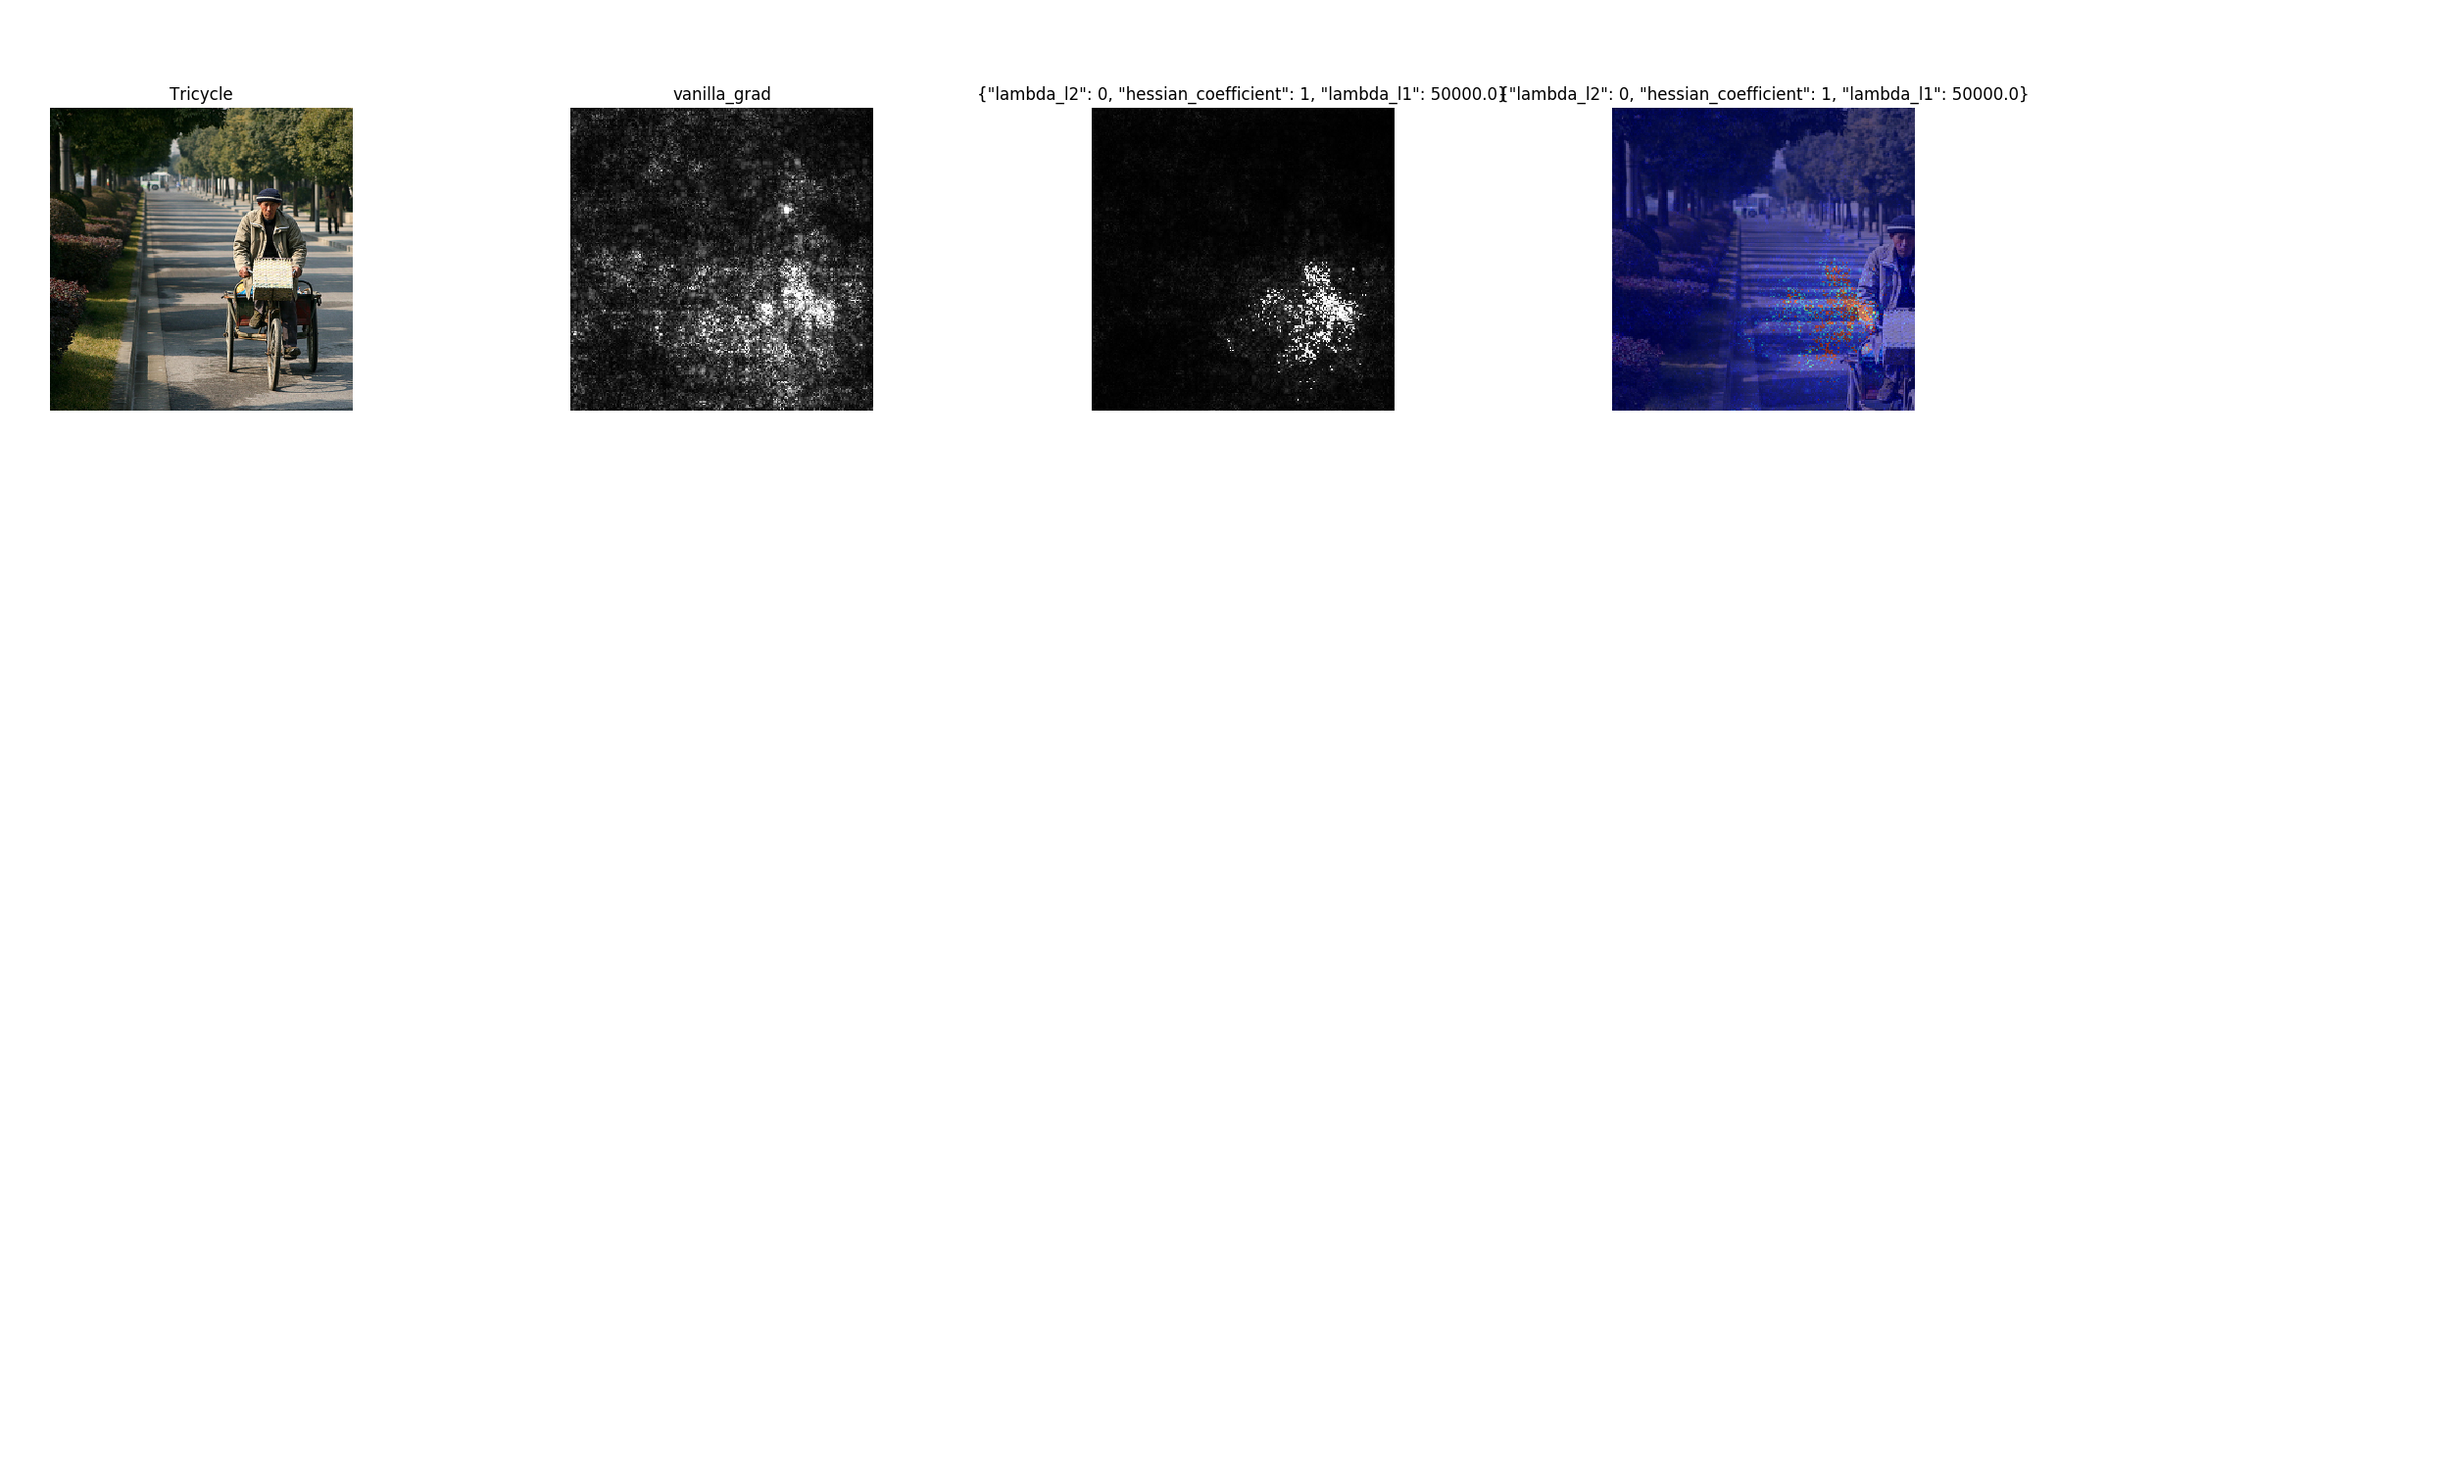
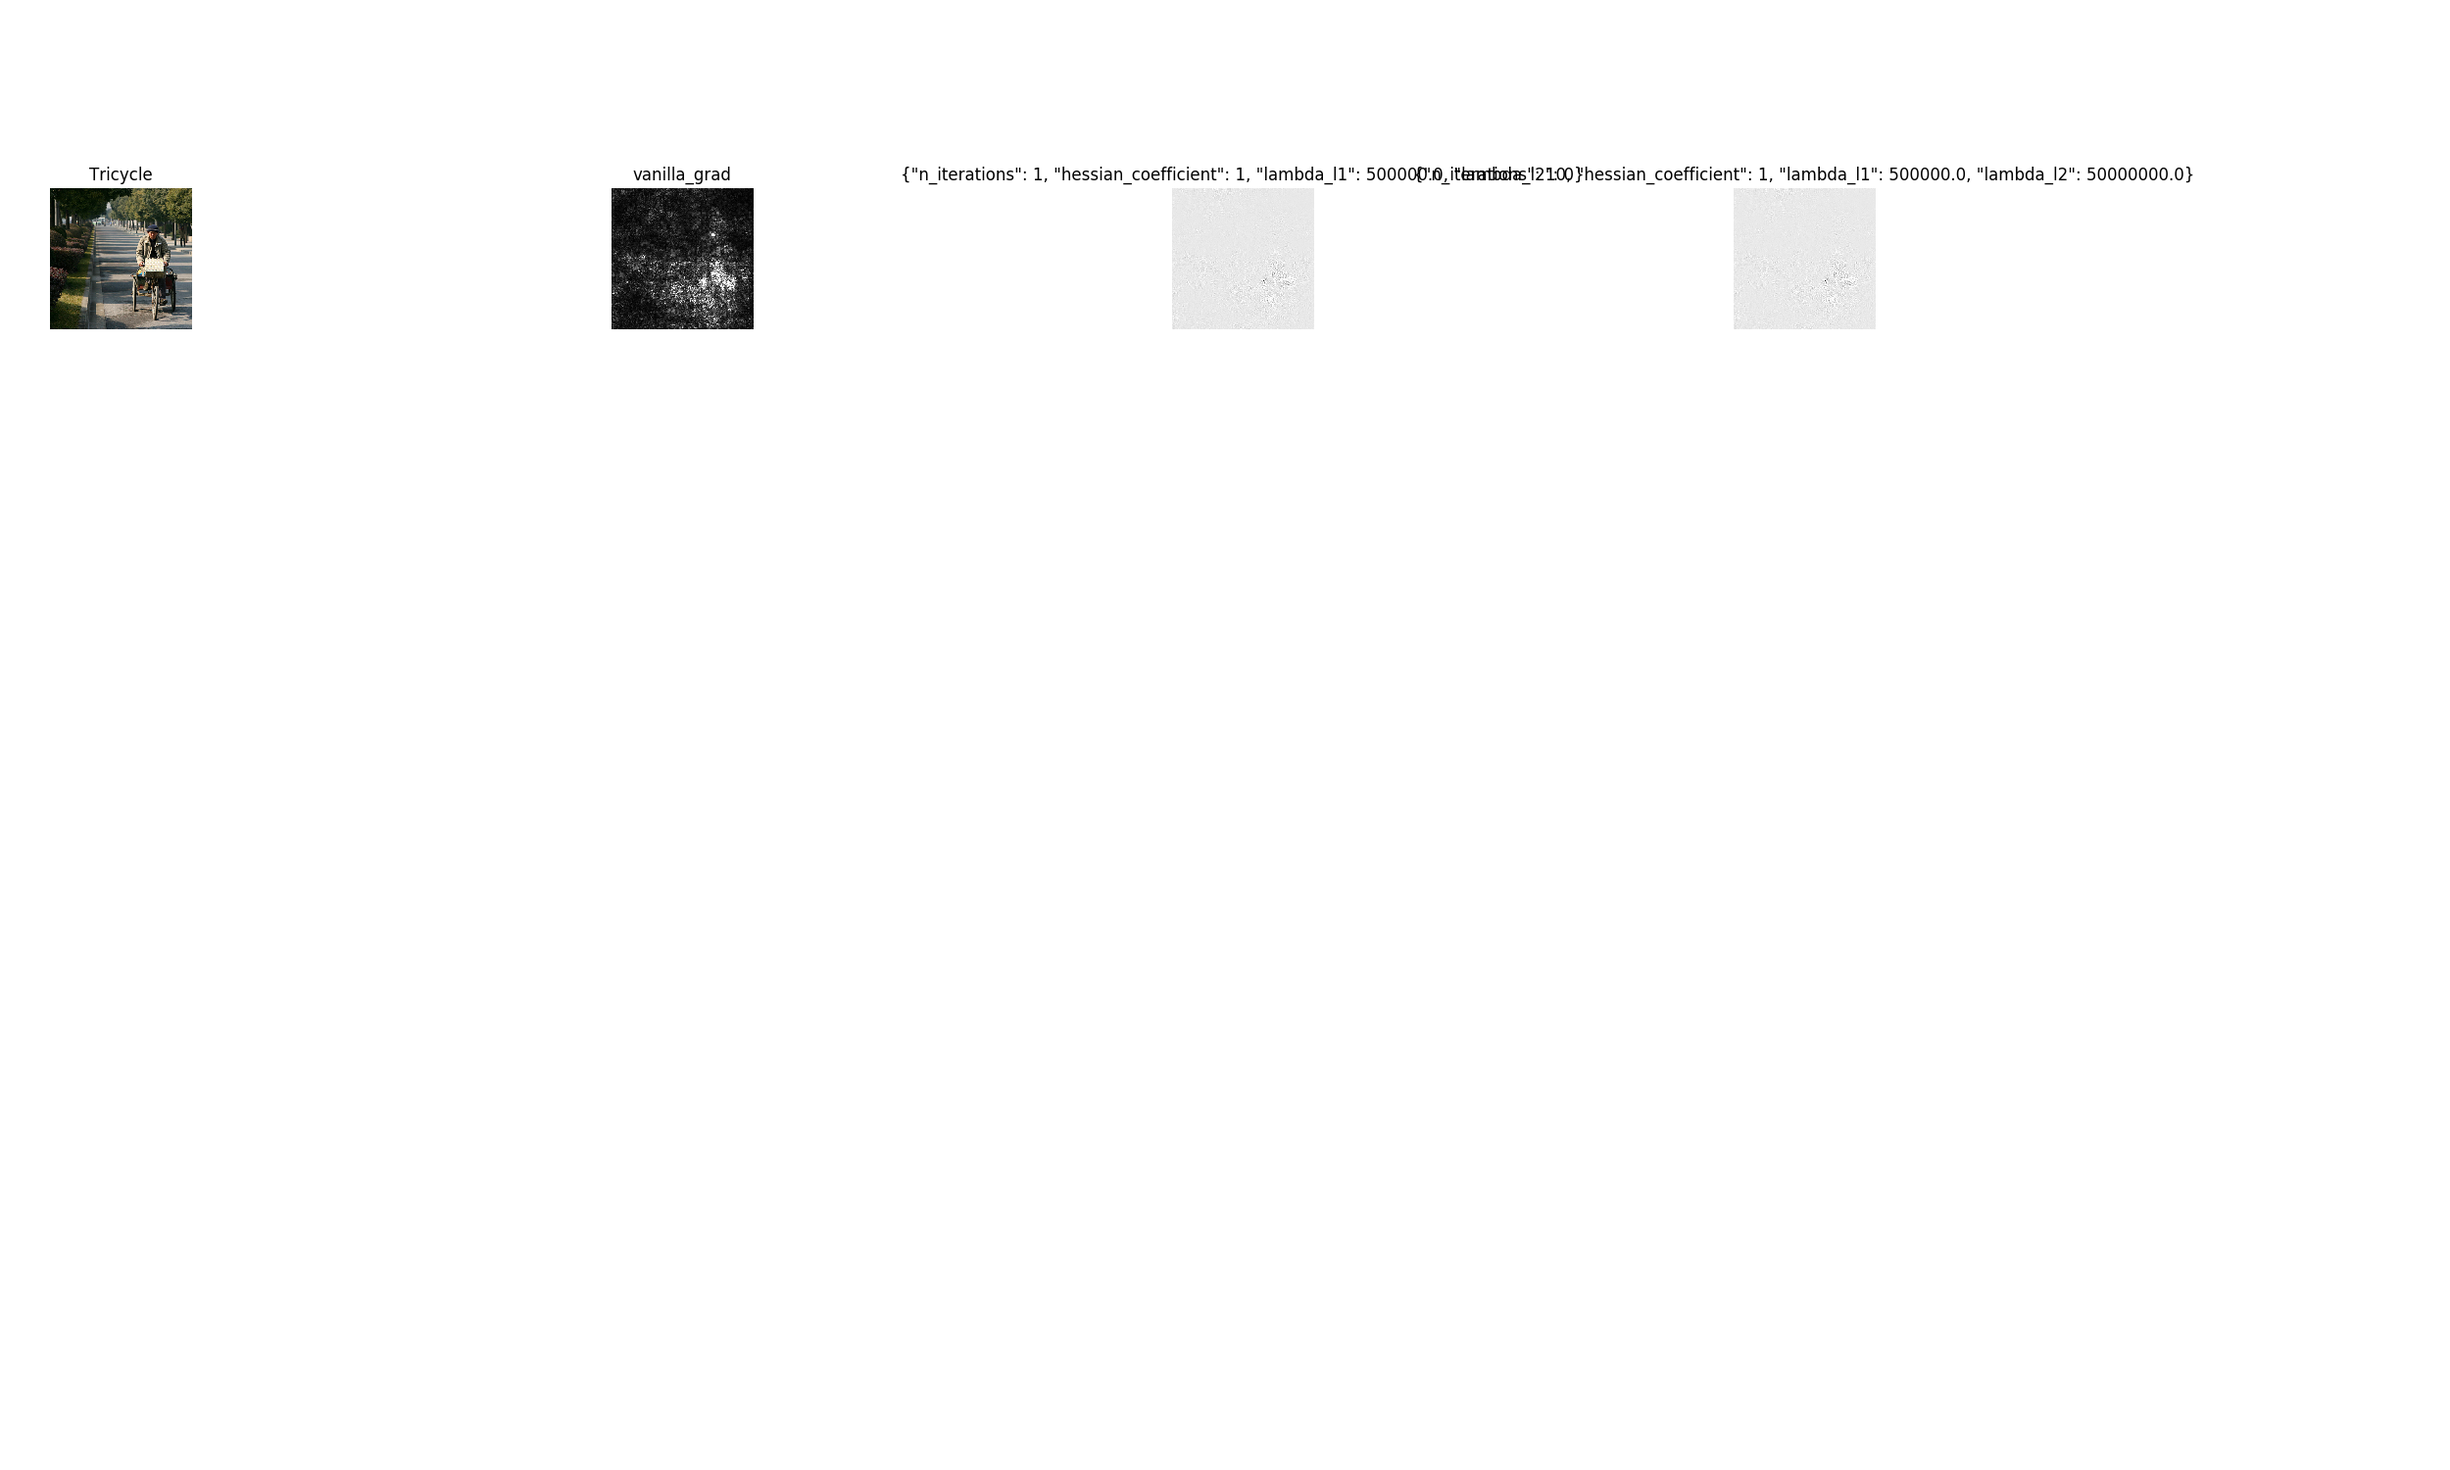
hmm

Changed region(s): [[0.4056, 0.0613, 0.8736, 0.3067], [0.2184, 0.0613, 0.4056, 0.3067], [0.0, 0.0613, 0.156, 0.3067]]

diff --git a/soheil.py b/soheil.py
@@ -79,10 +79,28 @@ def main():
         #    {'hessian_coefficient': 0, 'lambda_l1': 1e3, 'lambda_l2': 1e5}],
         #['resnet50', 'sparse', 'camshow',
         #    {'hessian_coefficient': 0, 'lambda_l1': 1e4, 'lambda_l2': 1e5}],
-        #['resnet50', 'sparse', 'imshow',
-        #    {'hessian_coefficient': 1, 'lambda_l1': 5e4, 'lambda_l2': 0}],                    
-        ['resnet50', 'sparse', 'camshow',
-            {'hessian_coefficient': 1, 'lambda_l1': 5e4, 'lambda_l2': 0}],            
+        ['resnet50', 'sparse', 'imshow',
+            {'hessian_coefficient': 1, 'lambda_l1': 5e4, 'lambda_l2': 0, 'n_iterations': 1}],                   
+        ['resnet50', 'sparse', 'imshow',
+            {'hessian_coefficient': 1, 'lambda_l1': 5e4, 'lambda_l2': 0, 'n_iterations': 2}], 
+        ['resnet50', 'sparse', 'imshow',
+            {'hessian_coefficient': 1, 'lambda_l1': 5e4, 'lambda_l2': 0, 'n_iterations': 3}], 
+        ['resnet50', 'sparse', 'imshow',
+            {'hessian_coefficient': 1, 'lambda_l1': 5e4, 'lambda_l2': 0, 'n_iterations': 4}], 
+        ['resnet50', 'sparse', 'imshow',
+            {'hessian_coefficient': 1, 'lambda_l1': 5e4, 'lambda_l2': 0, 'n_iterations': 5}], 
+        ['resnet50', 'sparse', 'imshow',
+            {'hessian_coefficient': 1, 'lambda_l1': 5e4, 'lambda_l2': 0, 'n_iterations': 6}], 
+        ['resnet50', 'sparse', 'imshow',
+            {'hessian_coefficient': 1, 'lambda_l1': 5e4, 'lambda_l2': 0, 'n_iterations': 7}], 
+        ['resnet50', 'sparse', 'imshow',
+            {'hessian_coefficient': 1, 'lambda_l1': 5e4, 'lambda_l2': 0, 'n_iterations': 8}], 
+        ['resnet50', 'sparse', 'imshow',
+            {'hessian_coefficient': 1, 'lambda_l1': 5e4, 'lambda_l2': 0, 'n_iterations': 9}], 
+        ['resnet50', 'sparse', 'imshow',
+            {'hessian_coefficient': 1, 'lambda_l1': 5e4, 'lambda_l2': 0, 'n_iterations': 10}], 
+        #['resnet50', 'sparse', 'camshow',
+        #    {'hessian_coefficient': 1, 'lambda_l1': 5e4, 'lambda_l2': 0}],            
         #['resnet50', 'sparse_smooth_grad', 'imshow', None],
         #['resnet50', 'sparse', 'camshow',
         #    {'hessian_coefficient': 1, 'lambda_l1': 1e4, 'lambda_l2': 1e5}],

diff --git a/explainer/sparse.py b/explainer/sparse.py
@@ -22,7 +22,7 @@ class SparseExplainer(object):
             output = self.model(inp)
             # if ind is None:
             ind = output.max(1)[1]
-            out_loss = F.cross_entropy(output, ind)
+            out_loss = F.cross_entropy(output, ind)  # TODO, find a way to not recalculate grad each time
             inp_grad, = torch.autograd.grad(out_loss, inp, create_graph=True)
             inp_grad = inp_grad.view((batch_size, n_chs, img_width * img_height))
             hessian_delta_vp, = torch.autograd.grad(
@@ -36,6 +36,7 @@ class SparseExplainer(object):
                   l1_term.data.cpu().numpy(), l2_term.data.cpu().numpy())
             loss = - taylor_1 - self.hessian_coefficient * taylor_2
             loss += self.lambda_l1 * l1_term + self.lambda_l2 * l2_term
+            print(loss)
             optimizer.zero_grad()
             loss.backward()
             optimizer.step()

diff --git a/utils.py b/utils.py
@@ -1,7 +1,7 @@
 from torchvision import models
 from torch.autograd import Variable
 from torch._thnn import type2backend
-
+import torch
         
 def load_model(arch):
     '''
